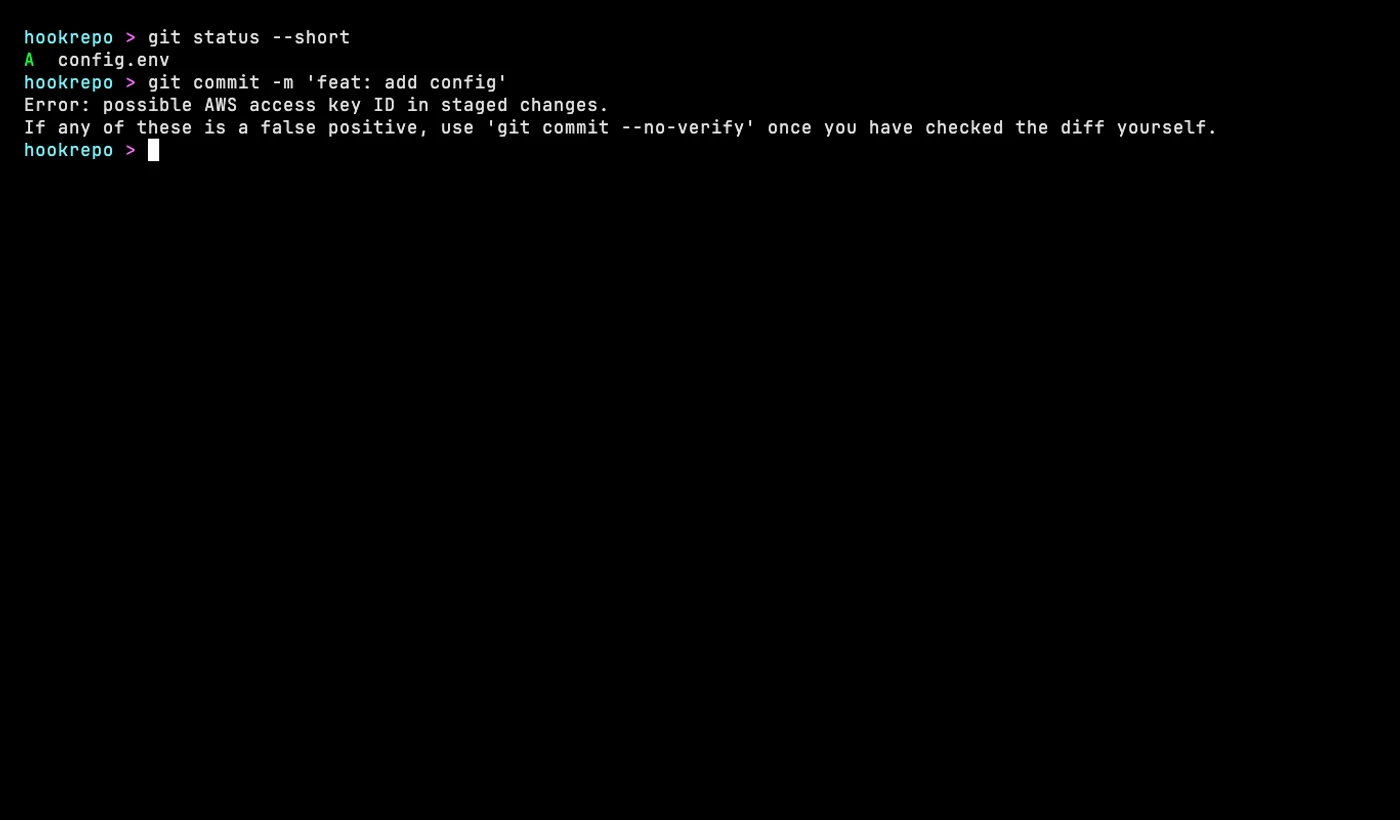
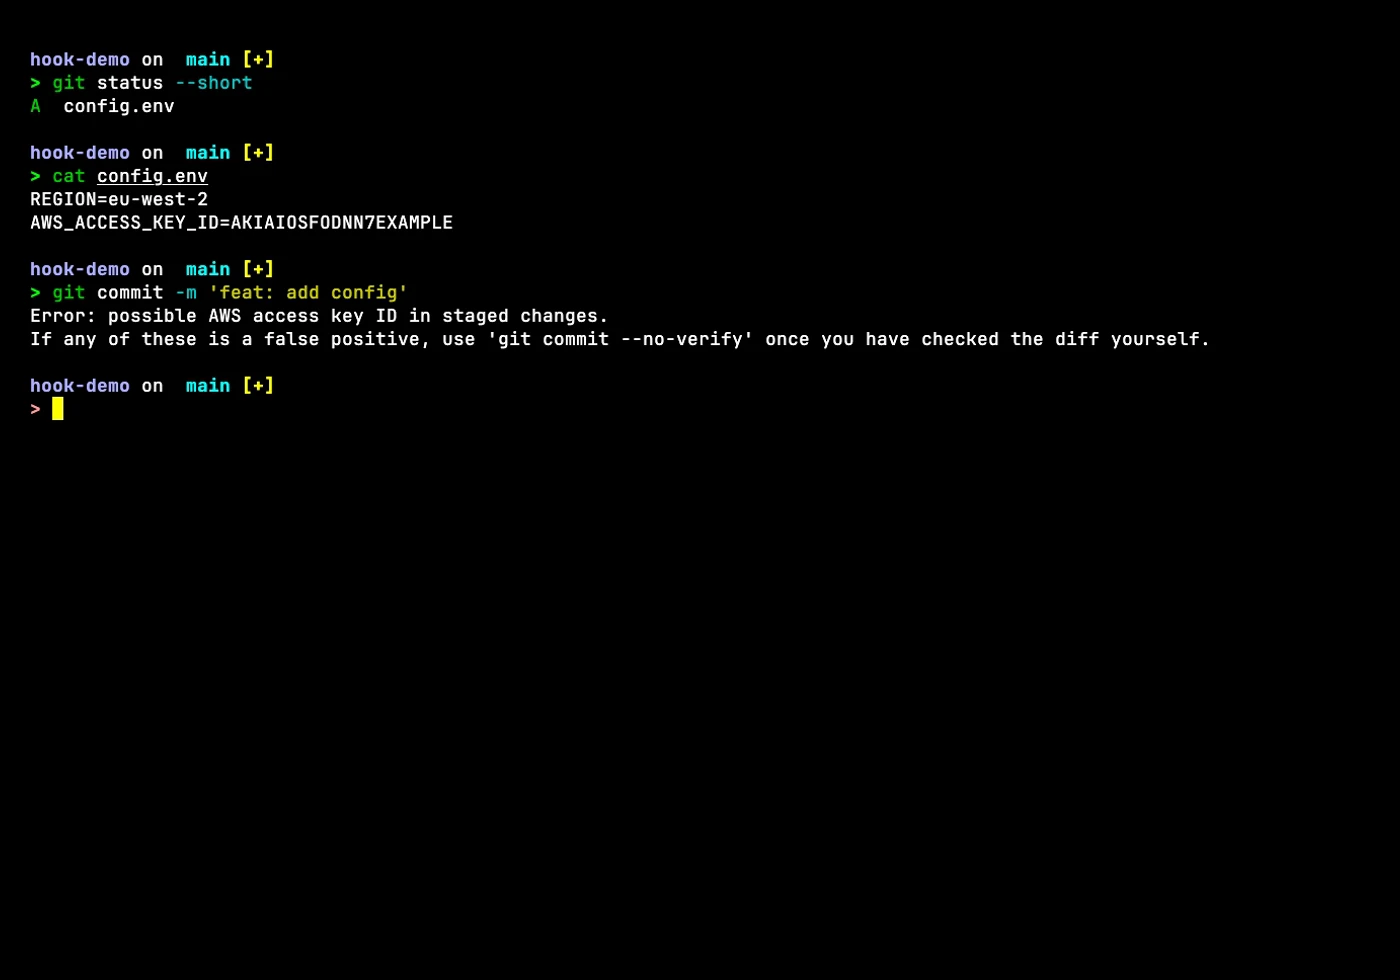
docs: re-record the demo media in Zacess Deep Contrast (#22)
Closes #21

diff --git a/README.md b/README.md
@@ -13,13 +13,27 @@ settings, not something each tool has to opt into separately.
 
 ## In action
 
-Screenshots in the High Contrast palette, dark and light. Each one links to a short animation of the same scene.
+Screenshots in Zacess Deep Contrast Dark and Light, recorded in a demo project. Each one links
+to a short animation of the same scene.
 
 ### A blocked commit
 
 | Dark | Light |
 | --- | --- |
-| [![Dark: a commit stopped by the pre-commit hook because the staged file contains an AWS access key ID](docs/demo/git-hooks-dark.webp)](docs/demo/git-hooks-dark.gif) | [![Light: a commit stopped by the pre-commit hook because the staged file contains an AWS access key ID](docs/demo/git-hooks-light.webp)](docs/demo/git-hooks-light.gif) |
+| [![Dark: a commit stopped by the pre-commit hook because the staged file contains AWS's example access key ID](docs/demo/git-hooks-dark.webp)](docs/demo/git-hooks-dark.gif) | [![Light: a commit stopped by the pre-commit hook because the staged file contains AWS's example access key ID](docs/demo/git-hooks-light.webp)](docs/demo/git-hooks-light.gif) |
+
+### Re-recording
+
+Each scene is a [VHS](https://github.com/charmbracelet/vhs) script in [`docs/demo`](docs/demo),
+recorded once per theme in a throwaway demo under `/tmp/demo`, so the shots show the real config
+with nothing personal on screen. The colours come from
+[Zacess Themes](https://github.com/zacesshq/themes).
+
+```sh
+brew install vhs gifsicle webp
+docs/demo/record.sh           # every scene, dark and light
+docs/demo/record.sh git-hooks # one scene, by its file name
+```
 
 ## What's here
 

diff --git a/CHANGELOG.md b/CHANGELOG.md
@@ -11,6 +11,7 @@ Versioning follows [Semantic Versioning](https://semver.org/spec/v2.0.0.html).
 
 ### Added
 
+- The screenshots and clips are recorded again in Zacess Deep Contrast Dark and Light from VHS scripts in `docs/demo`, using the real config in a throwaway demo project. `docs/demo/record.sh` makes them all again with one command.
 - Screenshots and short animations of the config in action, dark and light, in the README's In action section.
 
 ### Fixed
